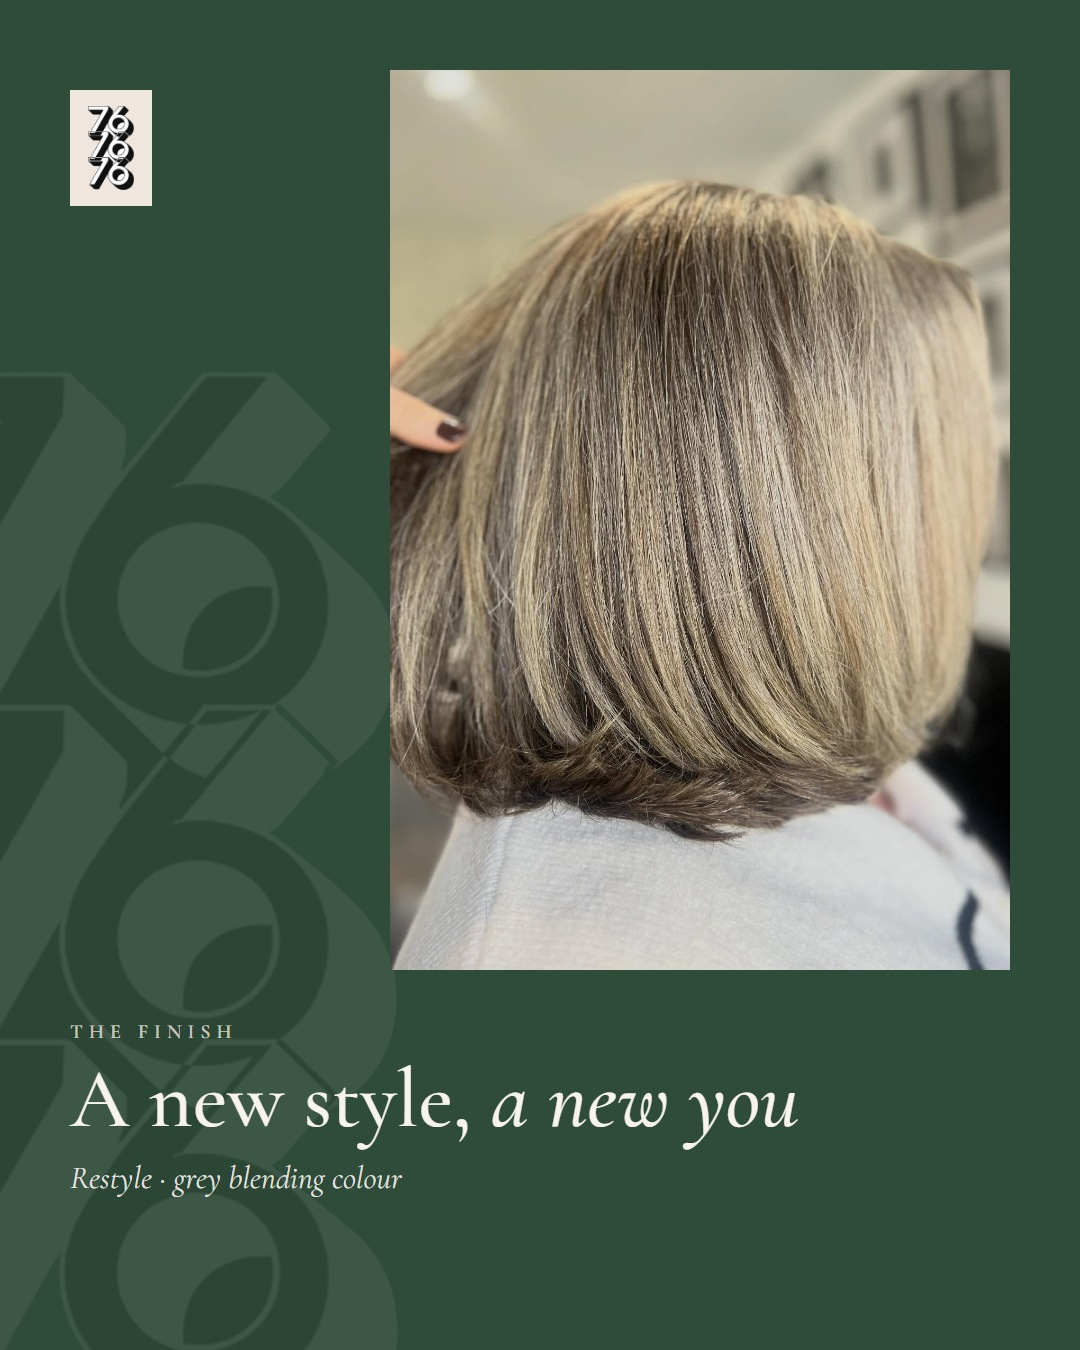
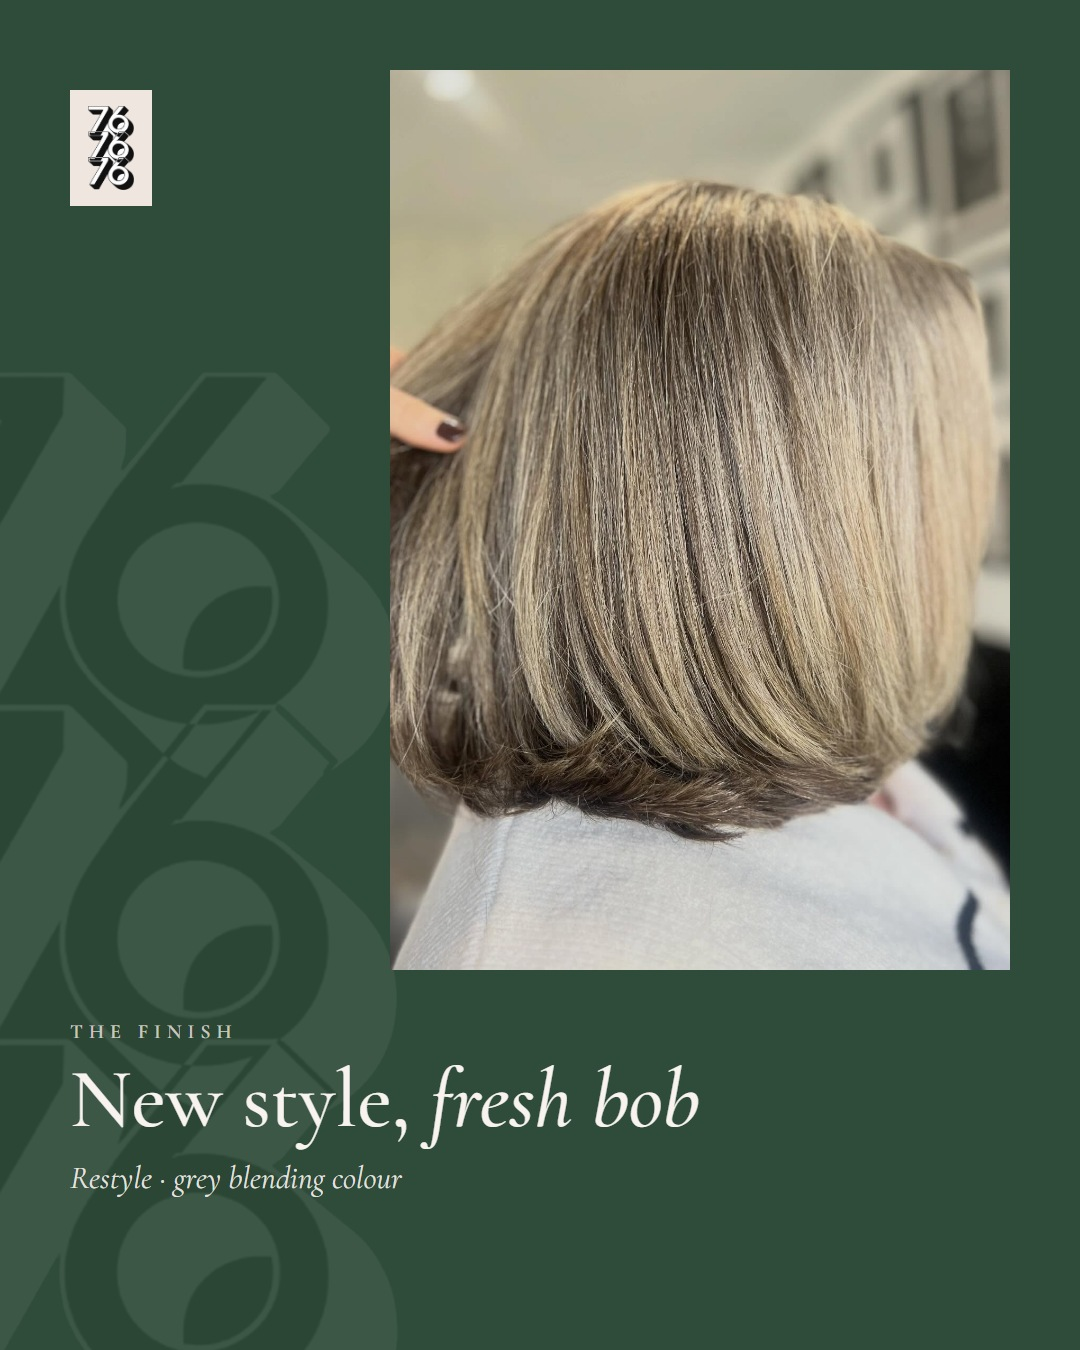
76 planner: Kimmy restyle slide 3 = 'New style, fresh bob' (Maria: no 'new you')

Changed region(s): [[0.0611, 0.7778, 0.7333, 0.84]]

diff --git a/seventysix-planner/index.html b/seventysix-planner/index.html
@@ -869,7 +869,7 @@ Bright through the lengths and blended at the root, so it grows out beautifully.
 #seventysixsalon #chelmsfordhair #blondebalayage #essexhairdresser #livedinblonde`};
 const IGI={emmabf:'img/wk/emmabf-1.jpg',money:'img/covers/money-D.jpg',violet:'img/wk/violet-clean.jpg',remi:'img/dream/remi.jpg',salon:'img/wk/salon-1.jpg',pkg:'img/wk/pkg-1.jpg',tip:'img/wk/tip-brassy-easy.jpg',bob:'img/covers/bob-D.jpg',emmafri:'img/wk/emmafri-bp.jpg',karen:'img/covers/review-A.jpg',review:'img/wk/review-chrissy.jpg',kimwork:'img/dream/kimmy-coming.jpg',team:'img/dream/kimmy-coming.jpg',copper:'img/covers/copper-D.jpg',balay:'img/wk/balay-bp.jpg'};
 const IGS={emmabf:[],tip:['img/slides/tipp-2-k.jpg',...[3,4,5,6,7].map(i=>`img/slides/tipp-${i}.jpg?v=2`)],pkg:[2,3,4].map(i=>`img/wk/pkg-${i}.jpg`),money:['img/slides/money-2.jpg','img/slides/money-3.jpg'],bob:['img/slides/bob-2.jpg','img/slides/bob-3.jpg','img/slides/bob-4.jpg'],copper:['img/slides/copper-2.jpg','img/slides/copper-3.jpg','img/slides/copper-4.jpg'],salon:[2,3,4,5,6].map(i=>`img/slides/salon-${i}.jpg`)};
-IGS.kimrestyle=[2,3,4].map(i=>`img/dream/kimrestyle-${i}.jpg`); /* Maria 24 Nov: photo carousel, slide 1 clean, slides 2+ designed */
+IGS.kimrestyle=[2,3,4].map(i=>`img/dream/kimrestyle-${i}.jpg?v=2`); /* Maria 24 Nov: photo carousel, slide 1 clean, slides 2+ designed */
 IGS.kelseymu=[2,3,4].map(i=>`img/dream/kelseymu-${i}.jpg?v=g`); /* Maria 24 Nov: Kelsey makeup carousel, slides 2+ designed */
 const IGV={remi:'video/remi.mp4',violet:'video/rachael-vivid.mp4',balay:'video/emma-balayage.mp4',emmafri:'video/emma-bf-ba3.mp4'};
 let showDays=false;
